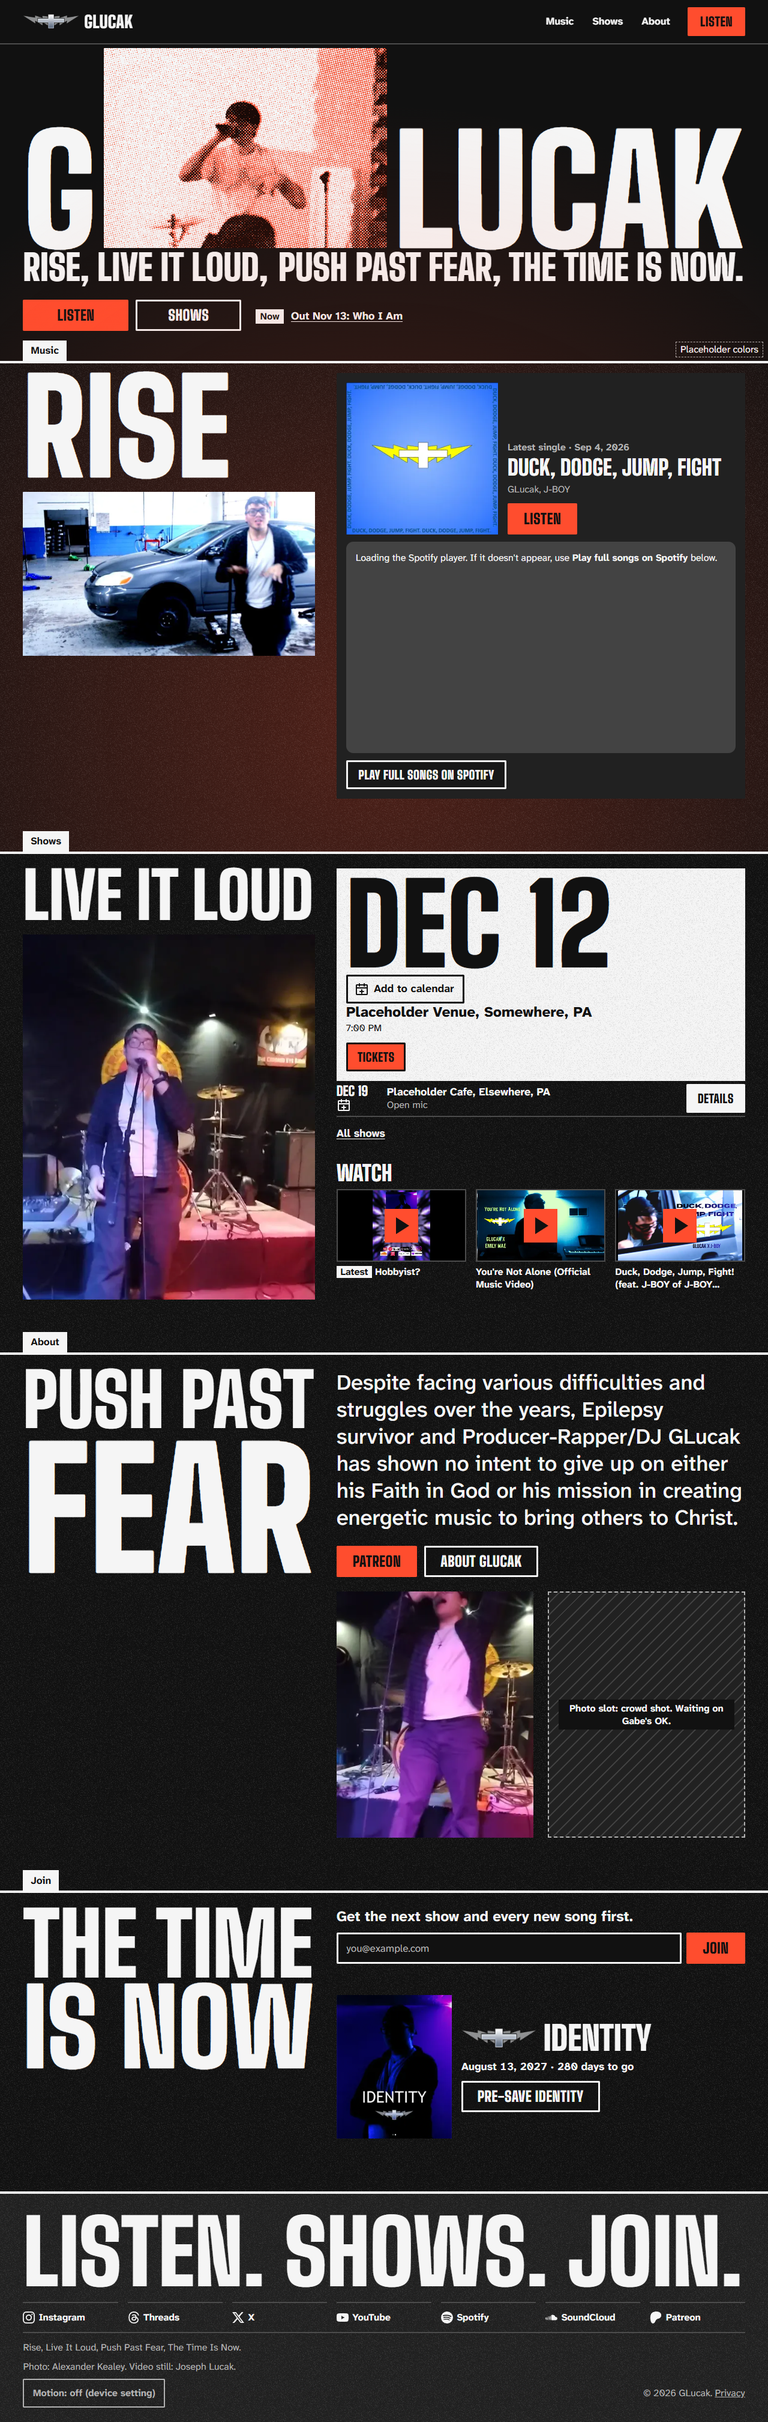
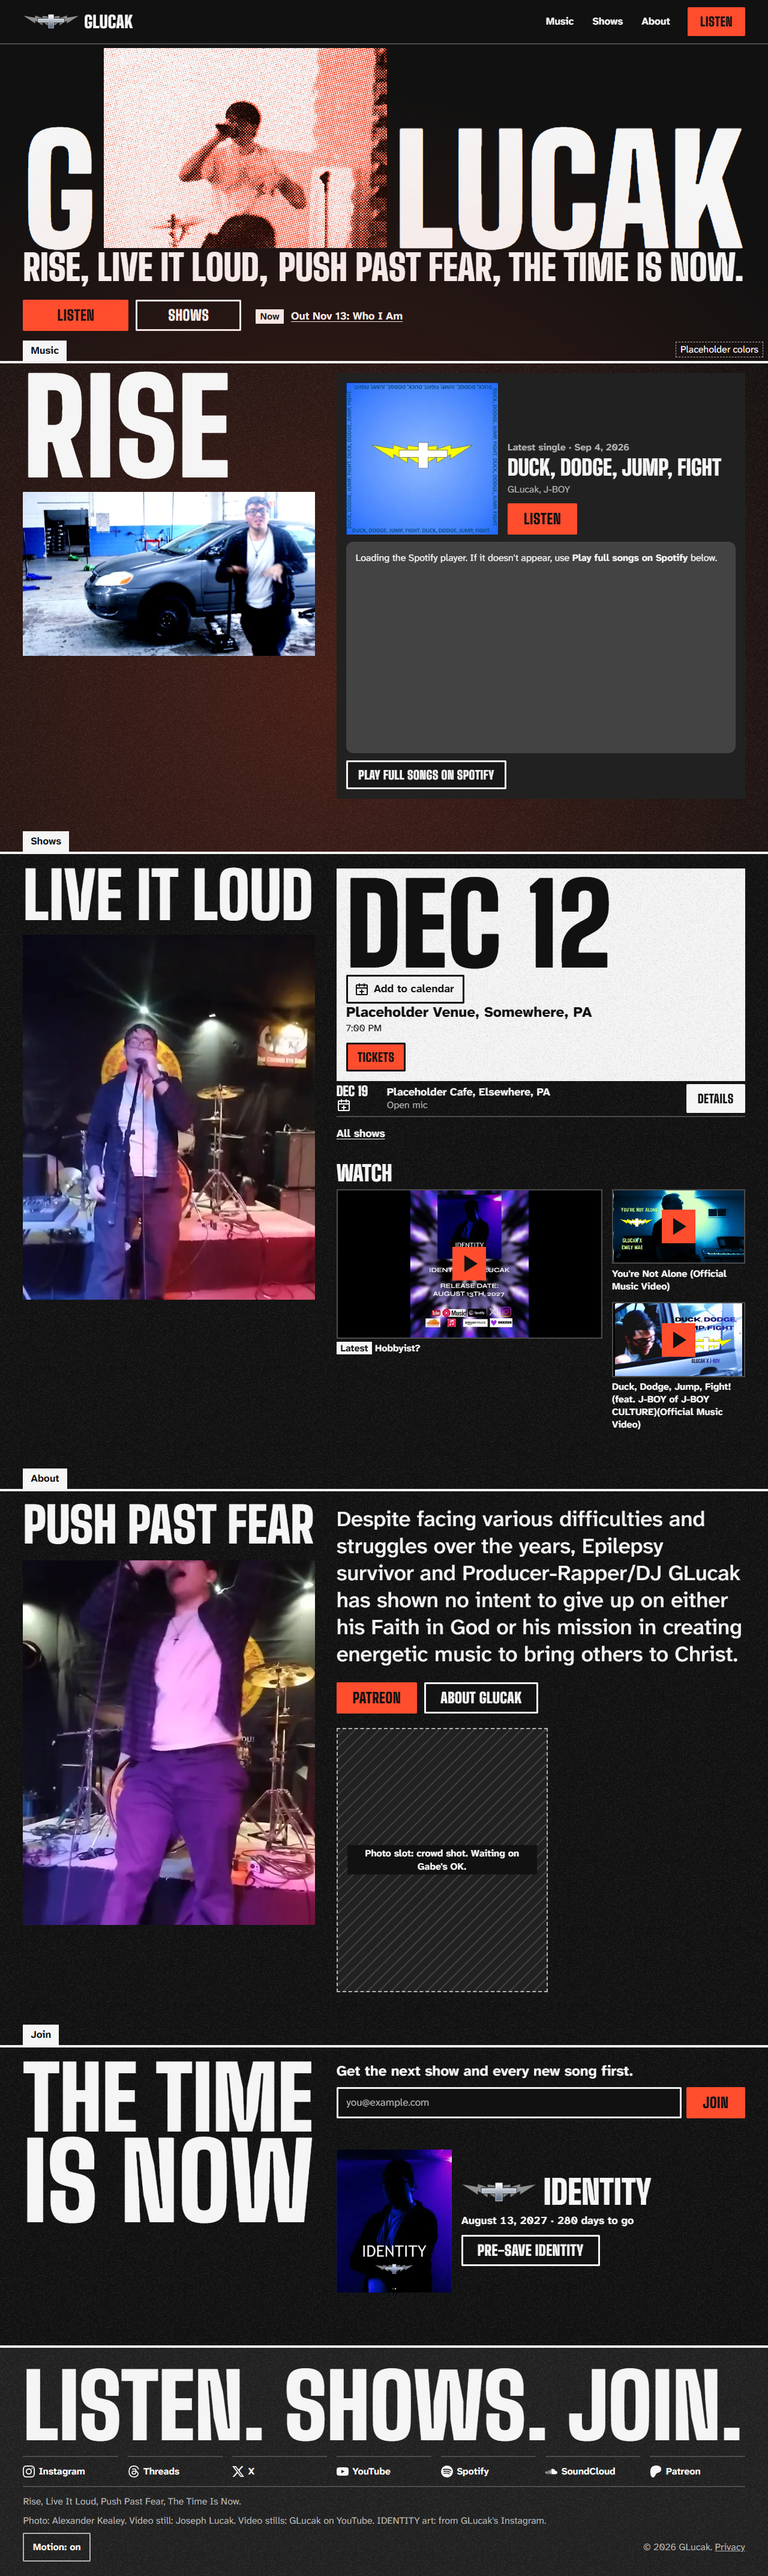
Port DESIGN 18h: big latest video + two stacked, FEAR on one line, phone Push Past Fear photo beside its heading, trims
From 900px the video row is the latest video large with two stacked; PUSH PAST FEAR is
locked to one line with its still under it; on phones the still stands beside the
heading and the bio runs full width; small spacing trims; the release kicker date never
breaks inside the date. Two dead rules removed after checking Music, Shows and About.
Home is 5.43 phone screens at 390 (quotes off); with quotes on it would be 5.86, so
they stay off for now. 164 tests.

diff --git a/src/styles/global.css b/src/styles/global.css
@@ -351,7 +351,7 @@ html[data-hero='b'] .slot img { width: 100%; height: 100%; object-fit: cover; ob
 .quote-text, .quote-text p { display: inline; font-size: var(--step-1); font-weight: 700; line-height: 1.3; }
 .quote-text p::before { content: '\201C'; }
 .quote-text p::after { content: '\201D'; }
-.quote-credit { display: inline; margin-left: 0.4rem; color: var(--muted); font-size: var(--step--1); line-height: 1.3; }
+.quote-credit { display: block; margin-left: 0.4rem; color: var(--muted); font-size: var(--step--1); line-height: 1.3; }
 .quote-credit a { display: inline-flex; align-items: center; min-height: 48px; vertical-align: middle; color: var(--muted); text-underline-offset: 3px; }
 /* Prototype-only chip, sits in the gap above the quote, so it adds no height. */
 .quote-chip { top: -1.65rem; bottom: auto; right: 0; }
@@ -510,7 +510,6 @@ html:not([data-hero='b']) .credit-b { display: none; }
   .rise-grid { display: grid; grid-template-columns: minmax(0, 5fr) minmax(0, 7fr); gap: var(--space-m) var(--space-xl); align-items: start; }
   .spine:has(.phrase-rise) { grid-column: 1; }
   .rise-player { grid-column: 2; grid-row: 1 / span 2; margin-top: 0; }
-  .release, .quote { grid-column: 1; }
   .phrase-rise { font-size: clamp(8rem, 17vw, 20rem); }
   .cover { width: 160px; height: 160px; }
 
@@ -821,7 +820,6 @@ a, button, summary, label { -webkit-tap-highlight-color: transparent; }
 /* Under 700px "Listen everywhere" goes: it is the same smart link as the release's "every platform" 150px below it. From
    700px it sits beside the Spotify button at no height and stays. */
 /* Boss ruling (D55): Home only (the release block follows the player there). Music has no release block, so it keeps the link. */
-@media (max-width: 699px) { .rise-player:has(~ .release) .under-link { display: none; } }
 /* About's larger list (not prototyped): three max-content columns at the bigger size overflow a phone (423px at 390), so keep two until 520px. */
 .links-lg { grid-template-columns: repeat(2, minmax(0, 1fr)); }
 @media (min-width: 520px) { .links-lg { grid-template-columns: repeat(3, minmax(max-content, 1fr)); } }
@@ -1070,3 +1068,29 @@ html[data-header='solid'] .site-header { background: var(--bg) !important; borde
 /* Now line at 200% text on phones: the hero buttons wrap to two rows and push the Now line under the phone bar, which holds the same Listen / Shows. */
 .hero-inner { container-type: inline-size; }
 @media (max-width: 699px) { @container (width < 16rem) { .hero-actions { display: none; } } }
+
+/* ---------- v2 port deltas D1, D2, D4, D7 (DESIGN 18h; word for word from prototype block 18) ---------- */
+/* D1: from 900px the latest big and two stacked; 700-899px keeps three across. */
+@media (min-width: 900px) {
+  .v2-vrow { grid-template-columns: minmax(0, 2fr) minmax(0, 1fr); }
+  .v2-vid:first-child { grid-row: 1 / span 2; }
+}
+/* D2 + D4, the Push Past Fear band: the body's children join the band grid. */
+.v2-push .v2-push-body { display: contents; }
+.band-push.v2-push > .wrap.v2-split { grid-template-columns: minmax(0, 1fr) 30%; grid-template-areas: 'side p1' 'bio bio' 'act act'; }
+.v2-push .v2-side { grid-area: side; }
+@media (max-width: 899px) { .v2-push .v2-belt { align-self: stretch; height: 0; min-height: 100%; object-fit: cover; object-position: 50% 22%; } }
+@media (min-width: 900px) {
+  .band-push.v2-push > .wrap.v2-split { grid-template-columns: minmax(0, 5fr) minmax(0, 7fr); grid-template-areas: 'side bio' 'p1 bio' 'p1 act' 'p1 p2'; grid-template-rows: auto auto auto 1fr; row-gap: var(--space-l); }
+  .v2-push .v2-slot { width: min(100%, 22rem); }
+}
+/* D7 */
+.v2-card > .quote { margin-top: 0; }
+@media (max-width: 899px) {
+  .v2-card { padding-bottom: var(--space-xs); }
+  .v2-videos { margin-top: var(--space-m); }
+  .band-push.v2-push { padding-top: var(--space-m); }
+  .band-push.v2-push > .wrap.v2-split { row-gap: var(--space-s); }
+}
+/* D1 on /shows/ from 72rem: its row is the swipe row again, so the first card does not span two rows. */
+@media (min-width: 72rem) { .shows-grid .v2-vid:first-child { grid-row: auto; } }

diff --git a/test/v2port.test.js b/test/v2port.test.js
@@ -66,3 +66,14 @@ test('credits match the images each page shows; clamp gone; focusin handler; 200
   assert.match(readFileSync(join(ROOT, 'public/js/app.js'), 'utf8'), /focusin[^]*scrollIntoView\(\{ block: 'nearest', inline: 'nearest' \}\)/);
   assert.match(css, /@media \(max-width: 699px\) \{ @container \(width < 16rem\) \{ \.hero-actions \{ display: none; \} \} \}/);
 });
+
+test('18h: D1 video grid from 900px, lock-push on FEAR, no-break kicker date, dead 16f rules gone', () => {
+  assert.match(css, /@media \(min-width: 900px\) \{\s*\.v2-vrow \{ grid-template-columns: minmax\(0, 2fr\) minmax\(0, 1fr\); \}\s*\.v2-vid:first-child \{ grid-row: 1 \/ span 2; \}/);
+  const h = home();
+  assert.match(h, /<span class="phrase fit lock-push"><span class="ln ln-push1">Push Past/);
+  assert.match(h, /sizes="\(min-width: 900px\) 34vw, 82vw"/);
+  assert.match(h, /sizes="\(min-width: 900px\) 40vw, 30vw"/);
+  const k = h.match(/<p class="v2-kicker">([^]*?)<\/p>/)[1];
+  assert.match(k, /[A-Z][a-z]{2} \d{1,2}, \d{4}/, 'the date has no breaking spaces');
+  assert.ok(!css.includes('.rise-player:has(~ .release)') && !/\.release, \.quote \{ grid-column: 1/.test(css));
+});
